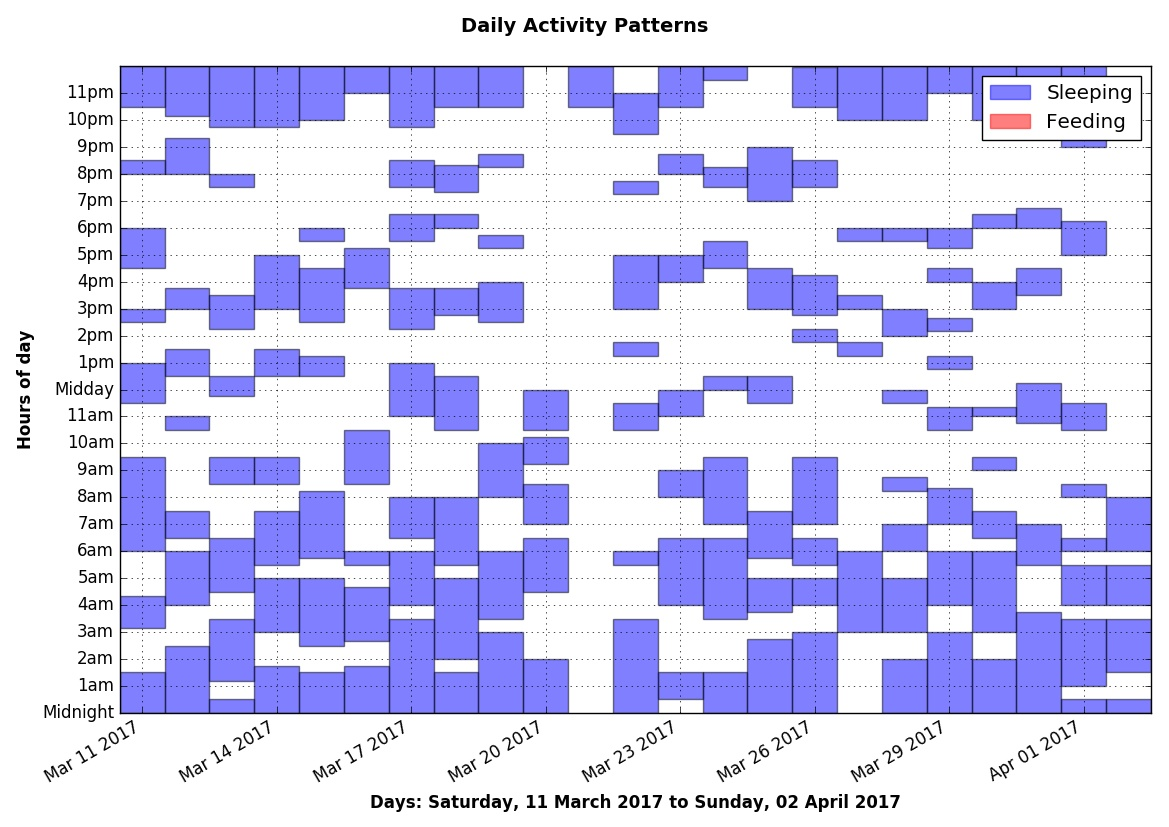
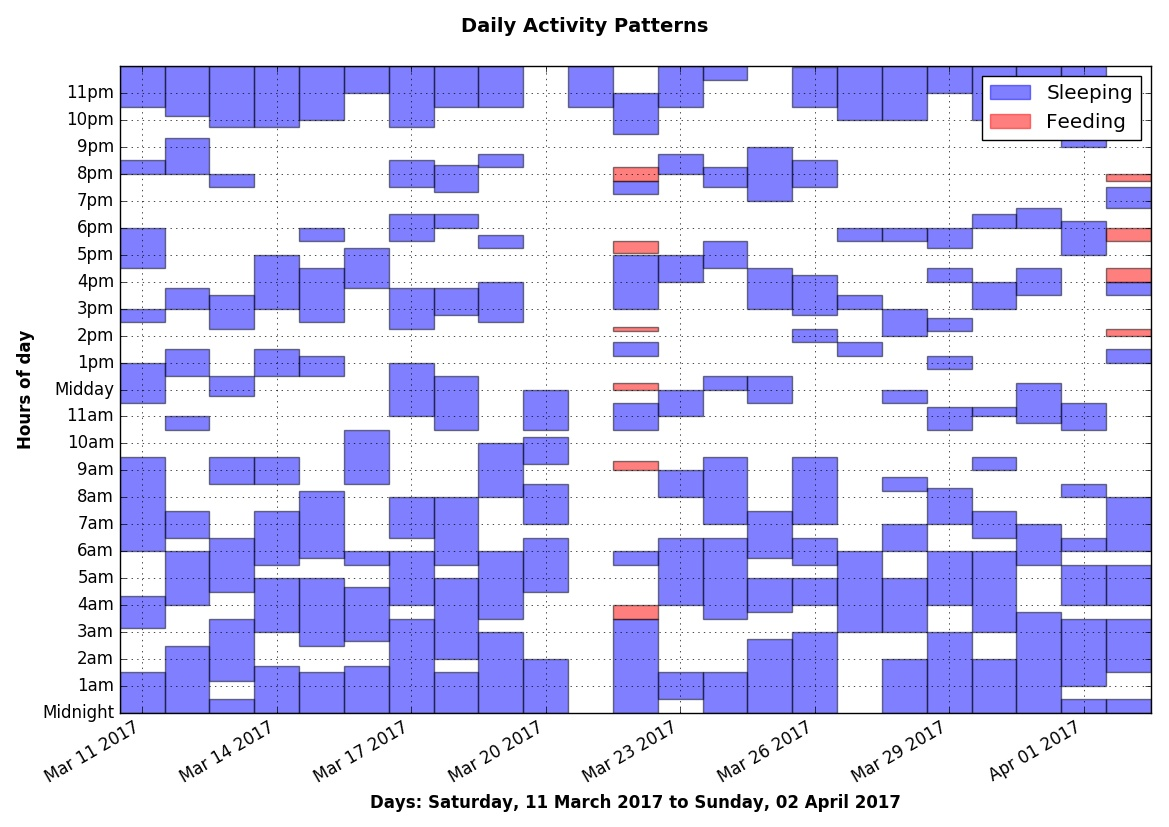
Data update. Feeding data added. Working on dataItem for regression.

diff --git a/regressionAnalysis.py b/regressionAnalysis.py
@@ -8,7 +8,7 @@ import sys
 import time
 from matplotlib.backends.backend_pdf import PdfPages
 
-def analyseData(plotDataList,maxDate,minDate):
+def analyseData(activitiesList,maxDate,minDate):
     
     dayLengthHours = 24
     nightStartTimeHours = 23
@@ -54,15 +54,34 @@ def analyseData(plotDataList,maxDate,minDate):
         print period.subperiods["night"]
         print ""
 
-    # Creates a dictionary of dataItem objects, each holding one twentyFourHourPeriod and with that twentyFourHourPeriod's start date as its key
-    dataItems = {}
+    # Creates a dictionary of dataItem objects, with start date keys of the form "2019-01-27" and timePeriod values
+    dataItemsDict = {}
     for period in twentyFourHourPeriods:
         item = dataItem("dataItem",period)
-        dataItems[item.startDate] = item
+        dataItemsDict[item.startDate] = item
 
-    print dataItems
+    print dataItemsDict
 
+    # Creates a dictionary of activity objects, with start date keys and of the form "2019-01-27" and values containing lists of activityInstance values
+    activityInstancesDict = {}
+    for activity in activitiesList:
+        activitiesStartingOnDate = []
+        if len(activityInstancesDict[activity.startDate]) == 0:
+            activityInstancesDict[activity.startDate] = [activity]
+        else:
+            activityInstancesDict[activity.startDate].append(activity)
+    print activityInstancesDict
 
+    addActivitiesToTwentyFourHourPeriods(dataItemsDict,twentyFourHourPeriodDict)
+
+def addActivitiesToTwentyFourHourPeriods(activitiesDict,twentyFourHourPeriodDict):
+    activitiesSpillingIntoNextDay = {}
+    for key in twentyFourHourPeriodDict:
+        for activityList in activitiesDict[key]:
+        if len(activitiesDict[key]) > 0:
+            for activity in activityList:
+                if activity.begins >= twentyFourHourPeriodDict[key].begins and activity.ends <= twentyFourHourPeriodDict[key]:
+                    twentyFourHourPeriodDict[key].activities.append(activity)
 
 class dataItem(object):
     def __init__(self,name,twentyFourHourPeriod):
@@ -70,7 +89,7 @@ class dataItem(object):
         self.twentyFourHourPeriod = twentyFourHourPeriod
         startDate = self.twentyFourHourPeriod.begins
         self.startDate = startDate.strftime("%Y-%m-%d")
-        self.activities = {}
+        self.activities = []
         self.subperiods = []
         self.nightSleepPeriods = []
         self.daySleepPeriods = []
@@ -213,9 +232,9 @@ def go():
     for i in range(len(dataFiles)):
         nextList = readDataFromFile(dataFiles[i],activityTypes[i])
         listOfInputLists.append(nextList)
-    analysisDataList = formatDataForAnalysis(listOfInputLists)
-    maxDate, minDate = getMaxAndMinDates(analysisDataList)
+    activitiesList = formatDataForAnalysis(listOfInputLists)
+    maxDate, minDate = getMaxAndMinDates(activitiesList)
 
-    analyseData(analysisDataList,maxDate,minDate)
+    analyseData(activitiesList,maxDate,minDate)
 
 go()

diff --git a/timeLog.py b/timeLog.py
@@ -213,7 +213,7 @@ def getMaxAndMinDates(plotDataList):
     return maxDate, minDate
 
 def go():
-    dataFiles = ['sleepDataStartingMarch22.csv']#,'feedingDataStartingMarch22.csv']
+    dataFiles = ['sleepDataStartingMarch22.csv','feedingDataStartingMarch22.csv']
     listOfInputLists = []
     for i in range(len(dataFiles)):
         nextList = readDataFromFile(dataFiles[i],i)
